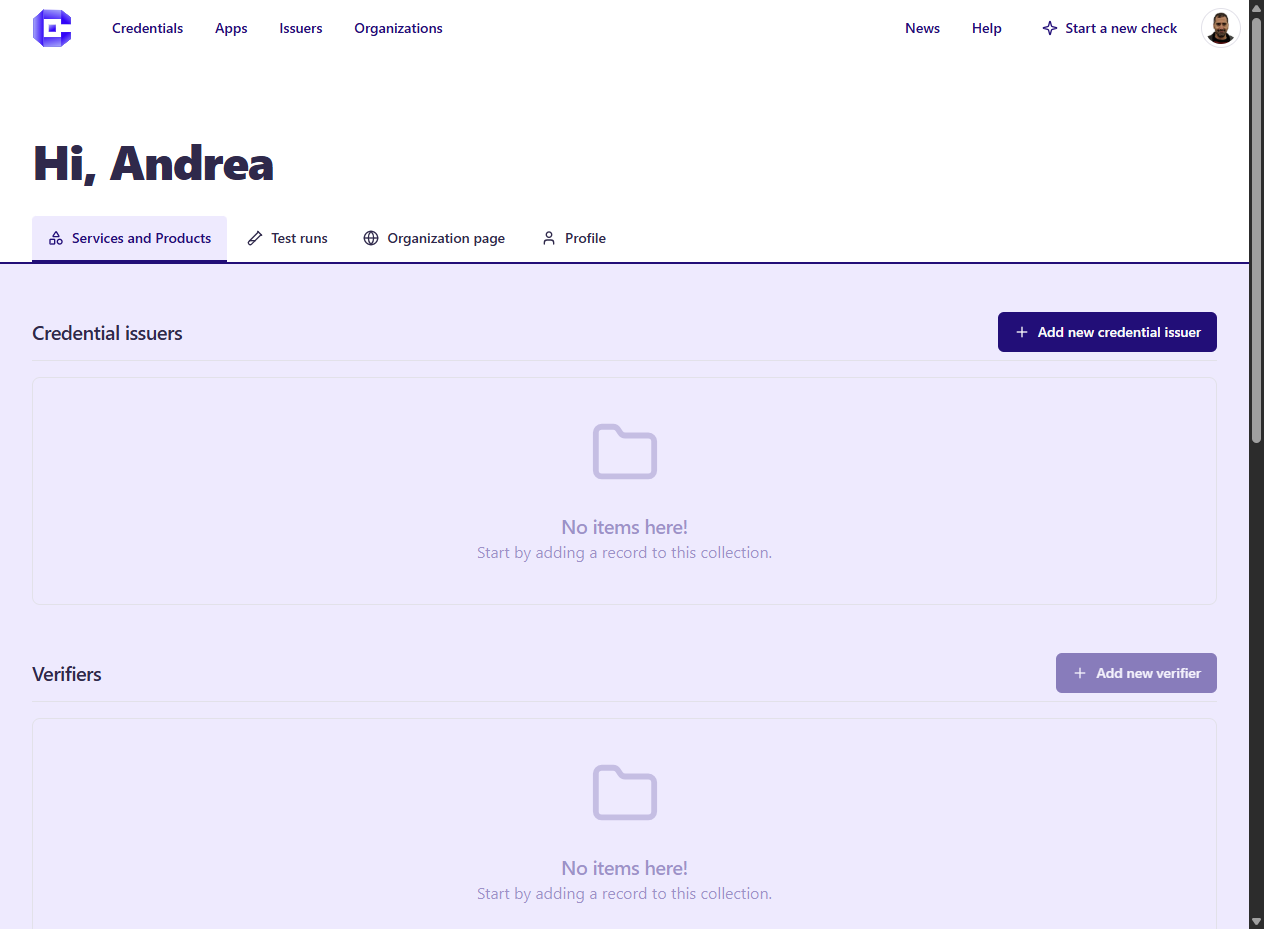
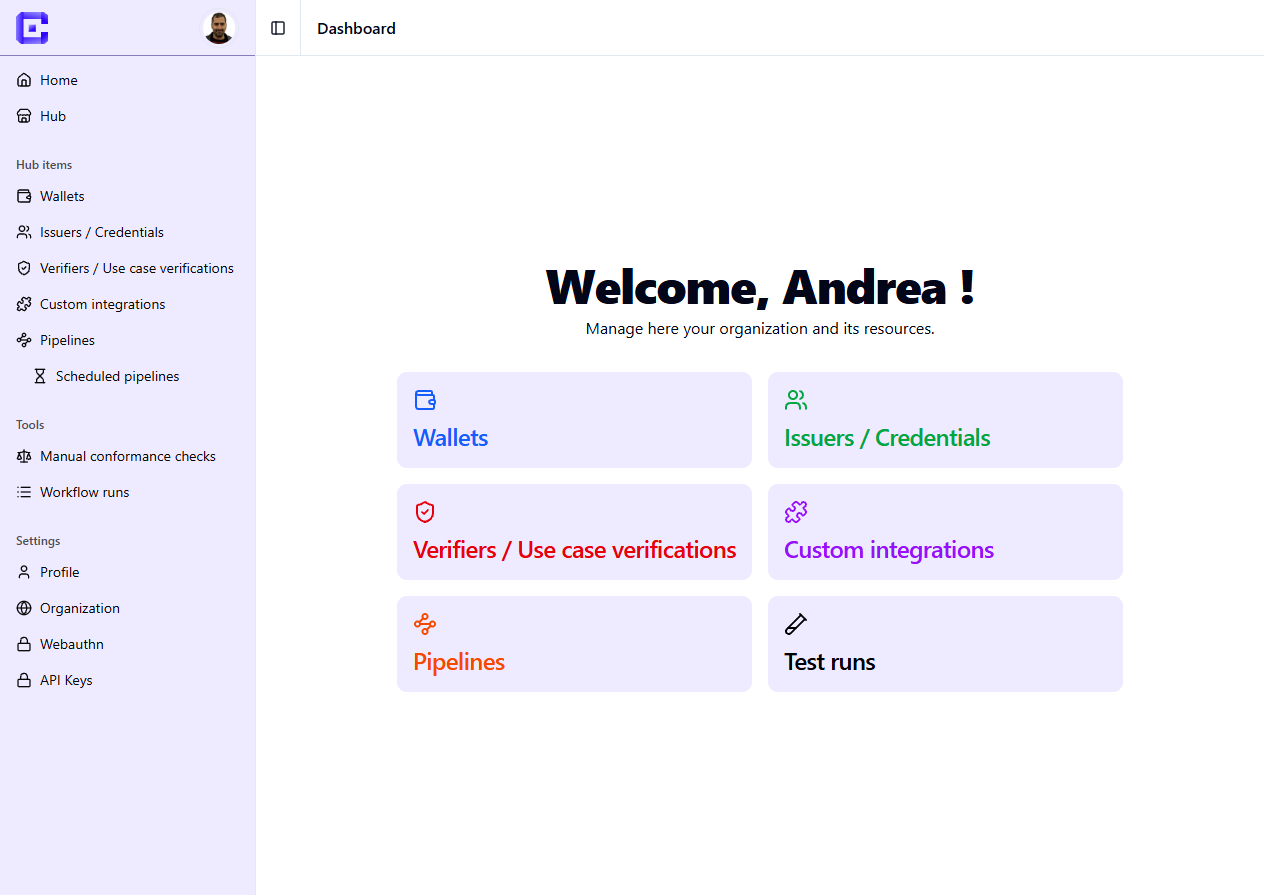
docs: update hub pics

diff --git a/docs/src/content/docs/manual/marketplace/index.md b/docs/src/content/docs/manual/marketplace/index.md
@@ -17,17 +17,16 @@ Typical actions in this section:
 - scan a QR code or open a deeplink on a phone
 - compare what different solutions expose
 
-<!-- ![Marketplace overview](../images/credimiMarketplace.png) -->
 
 ###
-![Marketplace issuers](../images/marketplace-issuers1.png)
+![Marketplace issuers](../images/hub-issuers-list1.png)
 ***Marketplace listing of Issuers and Credentials***
 ###
-![Marketplace issuer](../images/marketplace-issuer1.png)
+![Marketplace issuer](../images/hub-issuer1.png)
 ***Marketplace listing of one Issuer***
 
 ###
-![Marketplace credential](../images/marketplace-credential1.png)
+![Marketplace credential](../images/hub-credential1.png)
 ***Marketplace listing of one Credential Issuance: scan the QR with your Wallet to try it***
 
 

diff --git a/docs/src/content/docs/manual/marketplace/explore-components-and-solutions.md b/docs/src/content/docs/manual/marketplace/explore-components-and-solutions.md
@@ -9,7 +9,7 @@ Use the Marketplace to discover available solutions and inspect what each of the
 
 From the Marketplace, open the relevant tab and use search, tags and filters to narrow down the list.
 
-![Marketplace issuers list](../images/marketplace-home1.png)
+![Marketplace issuers list](../images/hub-home1.png)
 
 Open an item to inspect its details, versions and published capabilities.
 
@@ -21,7 +21,7 @@ Credential pages and verification pages are the public surfaces that visitors ca
 
 Browse **Credentials** straight from the **Issuers** list (and **Verifications** from the **Verifiers** list)
 
-![Marketplace issuers list](../images/marketplace-issuers-list1.png)
+![Marketplace issuers list](../images/hub-issuers-list1.png)
 
 
 Or click on an specific **Issuer** (or **Verifier**) to see what it offers:

diff --git a/docs/src/content/docs/index.md b/docs/src/content/docs/index.md
@@ -22,7 +22,7 @@ For users who want to browse the ecosystem and manually try flows.
 
 ###
 
-![Marketplace issuers](./manual/images/marketplace-issuers1.png)
+![Marketplace issuers](./manual/hub-issuers-list1.png)
 ***Marketplace listing of issuers and credentials***
 
 

diff --git a/docs/src/content/docs/manual/index.md b/docs/src/content/docs/manual/index.md
@@ -23,7 +23,7 @@ For users who want to browse the ecosystem and manually try flows.
 ###   
 
 
-![Marketplace issuers](./images/marketplace-issuers1.png)
+![Marketplace issuers](./images/hub-issuers-list1.png)
 ***Marketplace listing of issuers and credentials***
 
 

diff --git a/docs/src/content/docs/manual/marketplace/try-issuance-and-verification-services.md b/docs/src/content/docs/manual/marketplace/try-issuance-and-verification-services.md
@@ -16,7 +16,7 @@ Typical user flow:
 
 Open a credential page and look for the generated QR code or deeplink.
 
-![Credential](../images/marketplace-wwwallet-pid-mdoc-credential-1.png)
+![Credential](../images/hub-credential1.png)
 
 #### Try from mobile
 